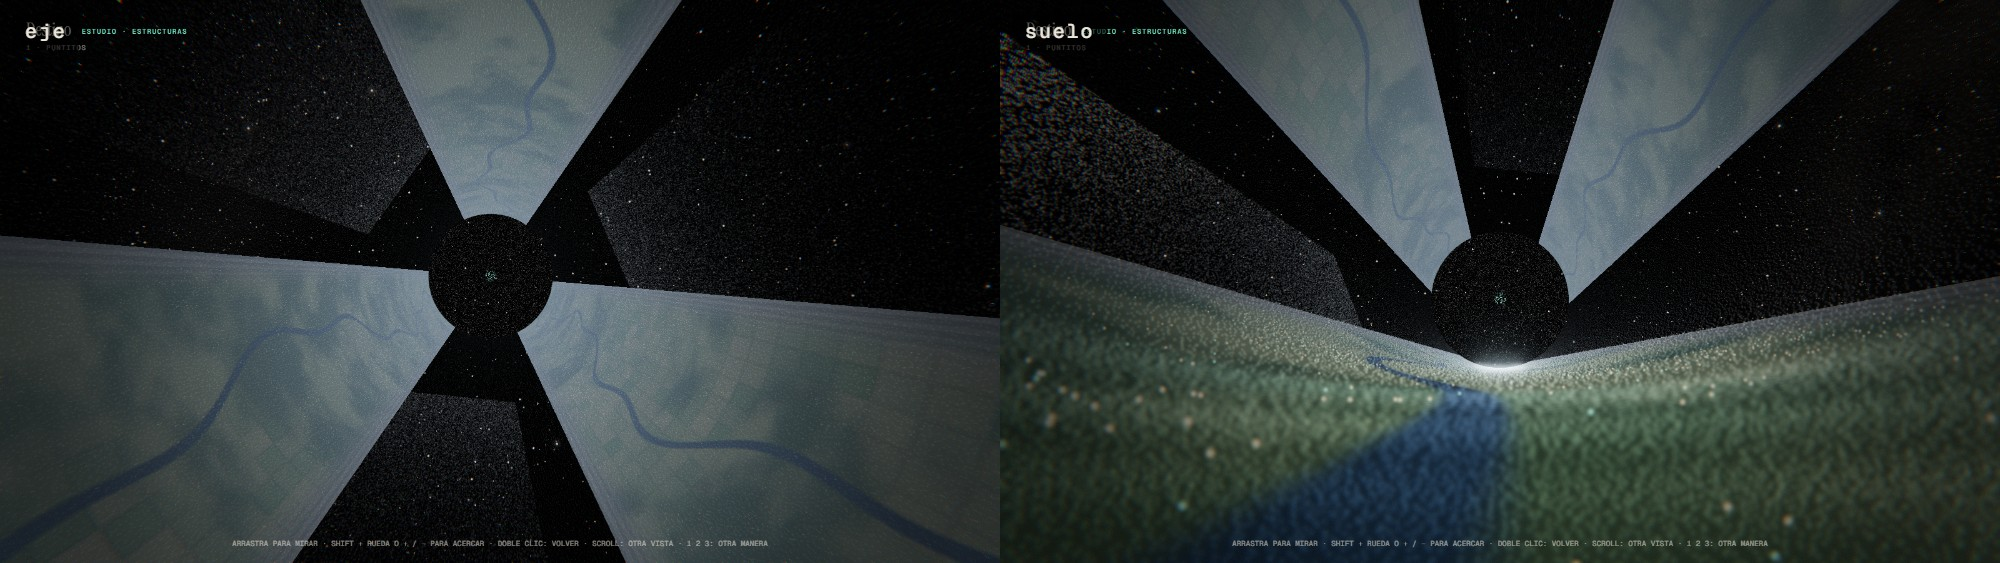
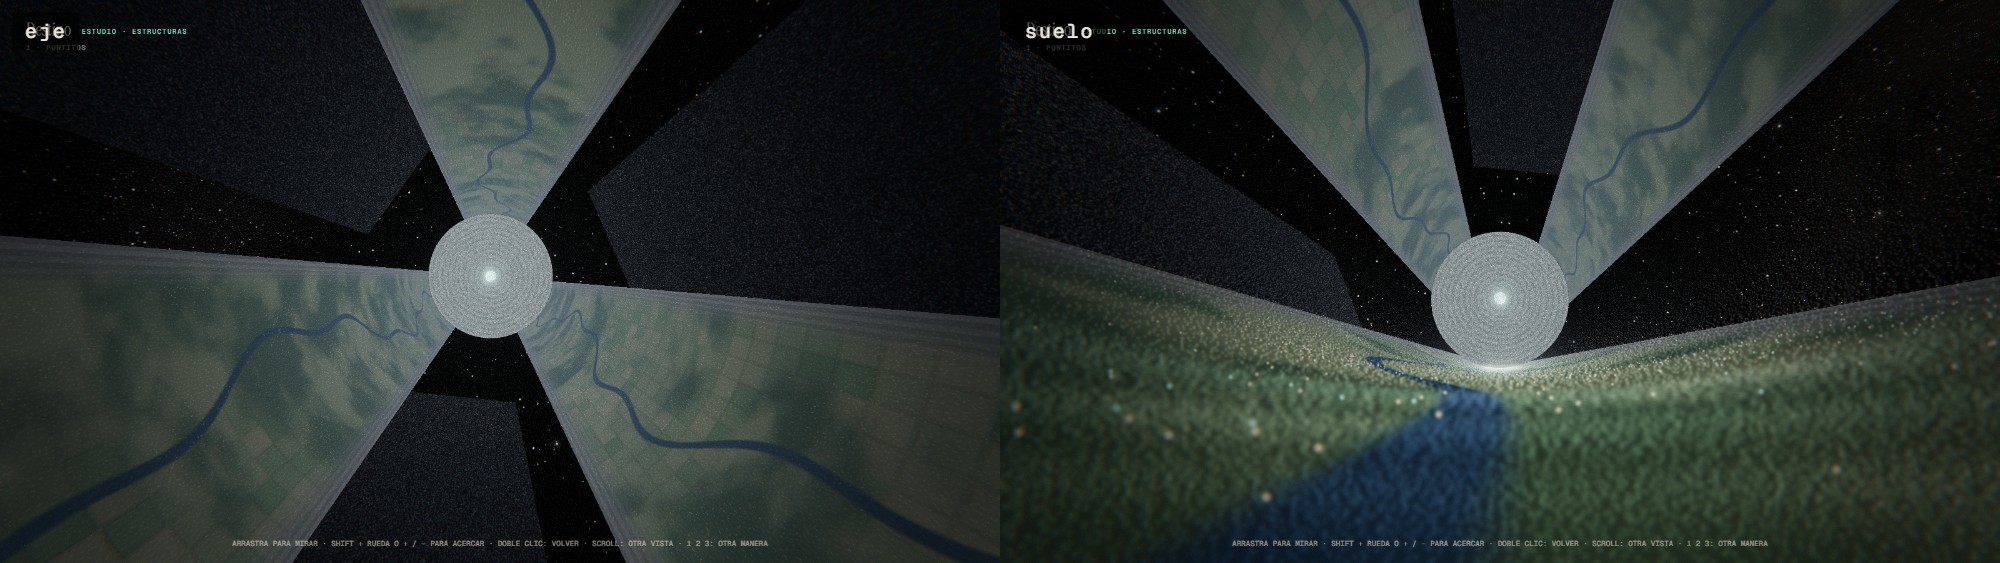
feat(estudios): give the cylinder's mirrors and end caps a dim surface

diff --git a/prototypes/src/estudios/estructuras.ts b/prototypes/src/estudios/estructuras.ts
@@ -87,7 +87,7 @@ const GLSL = /* glsl */ `
     return mix(vec3(0.2, 0.19, 0.17) * (0.8 + 0.2 * step(0.5, fract(s * 40.0))), col, rise);
   }
   // Inside, the air: what is far fades into a pale haze.
-  vec3 aire(vec3 col, float d, float dia) { return mix(col, vec3(0.42, 0.55, 0.72) * 0.5 * dia, (1.0 - exp(-d / 14.0)) * 0.75); }`;
+  vec3 aire(vec3 col, float d, float dia) { return mix(col, vec3(0.42, 0.55, 0.72) * 0.5 * dia, (1.0 - exp(-d / 22.0)) * 0.5); }`;
 
 const LOG_V = /* glsl */ `
   #include <common>
@@ -283,7 +283,7 @@ function maneraPuntos(root: THREE.Group) {
   root.add(fondo, g.points, pa.points);
   capas.push(g, pa);
   // The end caps: discs of points, with the port at the axis lit.
-  const capsN = 40000;
+  const capsN = 160000;
   const cp = new Float32Array(capsN * 3);
   const cc = new Float32Array(capsN * 3);
   for (let i = 0; i < capsN; i++) {
@@ -296,7 +296,7 @@ function maneraPuntos(root: THREE.Group) {
     const v = port ? 1.2 : 0.14 + 0.06 * ring;
     cc.set(port ? [0.5 * v, 1.0 * v, 0.85 * v] : [v, v, v * 1.04], i * 3);
   }
-  const caps = puntos(geometria({ position: cp, color: cc, size: new Float32Array(capsN).fill(0.05), seed: new Float32Array(capsN), aKind: new Float32Array(capsN) }), {
+  const caps = puntos(geometria({ position: cp, color: cc, size: new Float32Array(capsN).fill(0.04), seed: new Float32Array(capsN), aKind: new Float32Array(capsN) }), {
     pre: `uniform vec3 uCamL, uSun; uniform float uDentro;`,
     cuerpo: /* glsl */ `
       vec3 nCap = vec3(0.0, sign(p.y), 0.0);
@@ -304,7 +304,15 @@ function maneraPuntos(root: THREE.Group) {
       if (uDentro < 0.5) {
         if (dot(nCap, uCamL - p) < 0.0) em *= 0.0;
         else em = mix(color * (smoothstep(-0.1, 0.4, dot(nCap, uSun)) * 0.9 + 0.05), color, port);
-      } else em = color * 0.4;`,
+      } else {
+        // Inside, the far end: terraced land climbing to the port, lit by day, under the haze.
+        float r = length(p.xz);
+        float terr = fract(r * 3.0);
+        vec3 alb = mix(vec3(0.12, 0.17, 0.08), vec3(0.24, 0.23, 0.16), step(0.5, terr)) * (0.85 + 0.3 * fract(sin(dot(p.xz, vec2(12.9, 78.2))) * 43758.5));
+        float d = distance(p, uCamL);
+        em = mix(alb * 0.6, vec3(0.42, 0.55, 0.72) * 0.35, (1.0 - exp(-d / 22.0)) * 0.5) * 0.7;
+        em = mix(em, color, port);
+      }`,
     uniforms: u,
   });
   root.add(caps.points);
@@ -326,11 +334,52 @@ function maneraPuntos(root: THREE.Group) {
         vec3 Vv = normalize(uCamL - p);
         float glint = pow(max(dot(reflect(-uSun, nn), Vv), 0.0), 18.0);
         float sheen = pow(max(1.0 - abs(dot(nn, Vv)), 0.0), 3.0);
-        em = vec3(0.55, 0.6, 0.66) * (0.012 + 0.12 * sheen) + vec3(1.0, 0.96, 0.9) * glint * 0.8;`,
+        em = vec3(0.55, 0.6, 0.66) * (0.012 + 0.12 * sheen) + vec3(1.0, 0.96, 0.9) * glint * 0.8;
+        // Seen from inside, through a window, a mirror is where the day comes from: bright sky.
+        bool inn = length(uCamL.xz) < ${R.toFixed(1)} && abs(uCamL.y) < ${(L / 2).toFixed(1)};
+        if (inn) em = vec3(0.55, 0.62, 0.72) * 0.03 + vec3(1.0, 0.95, 0.85) * glint * 0.15;`,
       uniforms: { uCamL: u.uCamL, uSun: u.uSun, uN: { value: nrm } },
     });
     root.add(mm.points);
     capas.push(mm);
+  }
+  // Under the mirrors' and the caps' points, their surfaces, dim (as under the hull).
+  const bajo = (geo: THREE.BufferGeometry, M: THREE.Matrix4, glsl: string) => {
+    const mesh = new THREE.Mesh(
+      geo,
+      new THREE.ShaderMaterial({
+        uniforms: u,
+        side: THREE.DoubleSide,
+        vertexShader: /* glsl */ `${LOG_V}
+          varying vec3 vW;
+          void main() { vW = position; gl_Position = projectionMatrix * modelViewMatrix * vec4(position, 1.0);
+            #include <logdepthbuf_vertex>
+          }`,
+        fragmentShader: /* glsl */ `${LOG_F}
+          uniform vec3 uCamL; uniform float uDentro;
+          varying vec3 vW;
+          void main() {
+            #include <logdepthbuf_fragment>
+            vec3 c;
+            ${glsl}
+            gl_FragColor = vec4(c, 1.0);
+          }`,
+      }),
+    );
+    mesh.geometry.applyMatrix4(M);
+    root.add(mesh);
+  };
+  for (const M of espejos()) {
+    const back = M.clone().multiply(new THREE.Matrix4().makeTranslation(0, 0, -0.01));
+    bajo(new THREE.PlaneGeometry(ANCHO_ESPEJO, L), back, `c = uDentro > 0.5 ? vec3(0.42, 0.5, 0.62) * 0.025 : vec3(0.006);`);
+  }
+  for (const sg of [-1, 1]) {
+    const M = new THREE.Matrix4().makeTranslation(0, sg * (L / 2 + 0.002), 0).multiply(new THREE.Matrix4().makeRotationX(Math.PI / 2));
+    bajo(new THREE.CircleGeometry(R, 128), M, `
+      float r = length(vW.xz);
+      float terr = fract(r * 3.0);
+      vec3 alb = mix(vec3(0.12, 0.17, 0.08), vec3(0.24, 0.23, 0.16), step(0.5, terr));
+      c = uDentro > 0.5 ? mix(alb * 0.6, vec3(0.42, 0.55, 0.72) * 0.5, (1.0 - exp(-distance(vW, uCamL) / 22.0)) * 0.5) : vec3(0.02);`);
   }
   // Inside: the towns' lights.
   capas.push(...luces(root, u.uCamL, 0.35));
